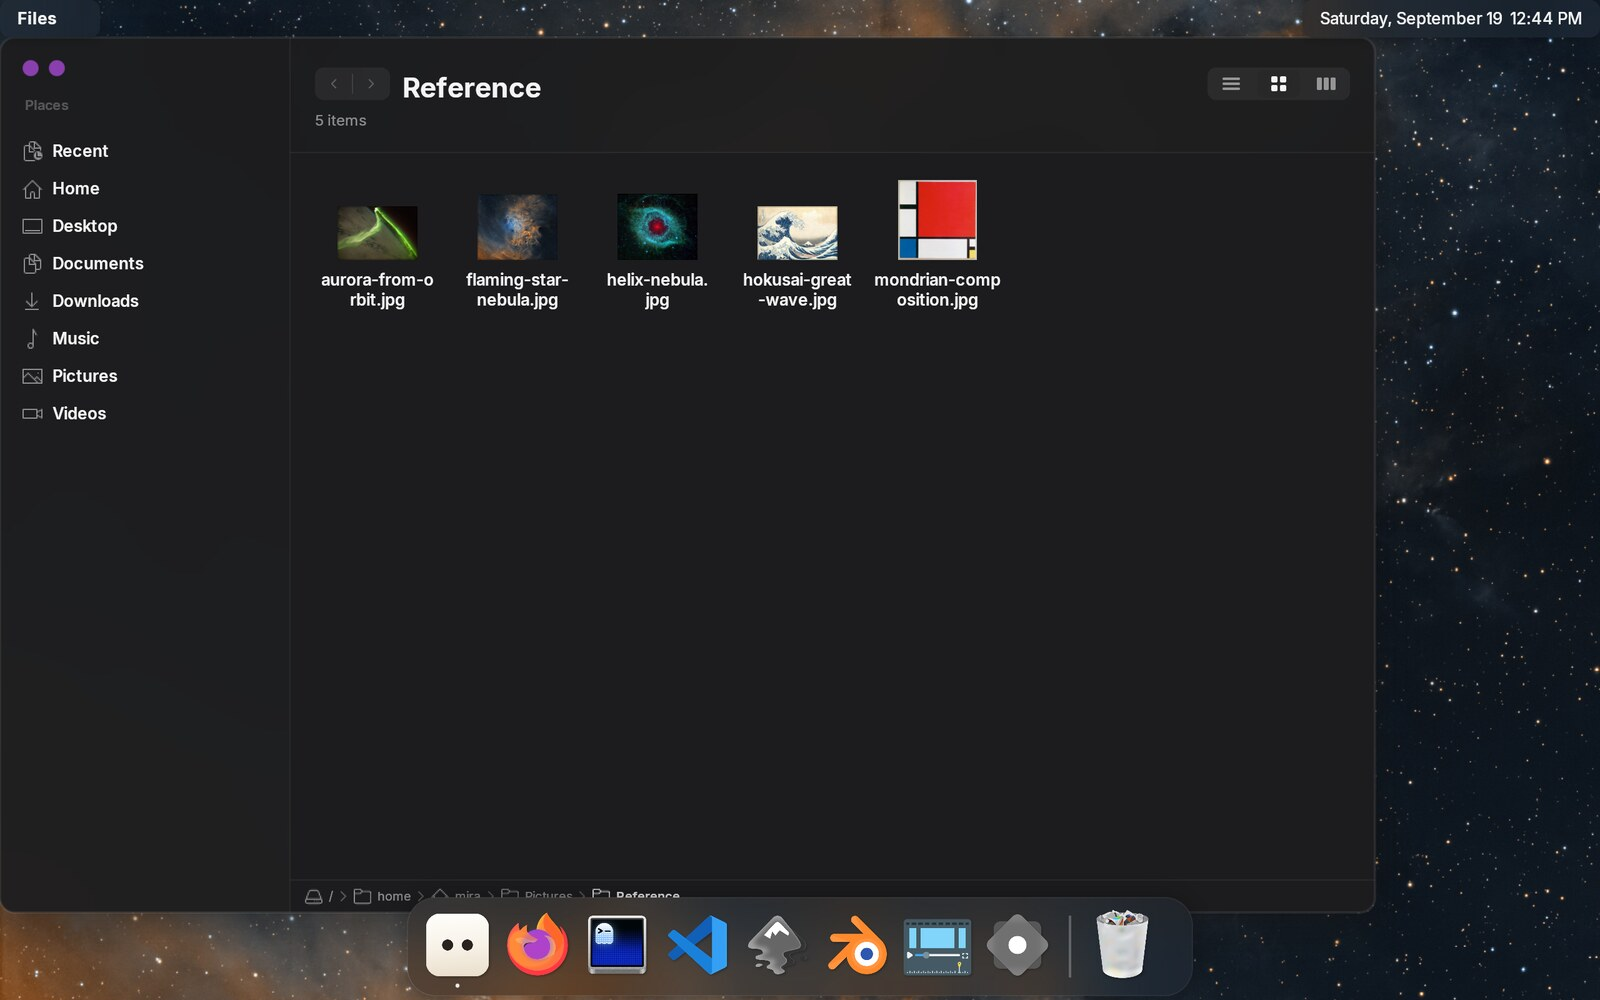
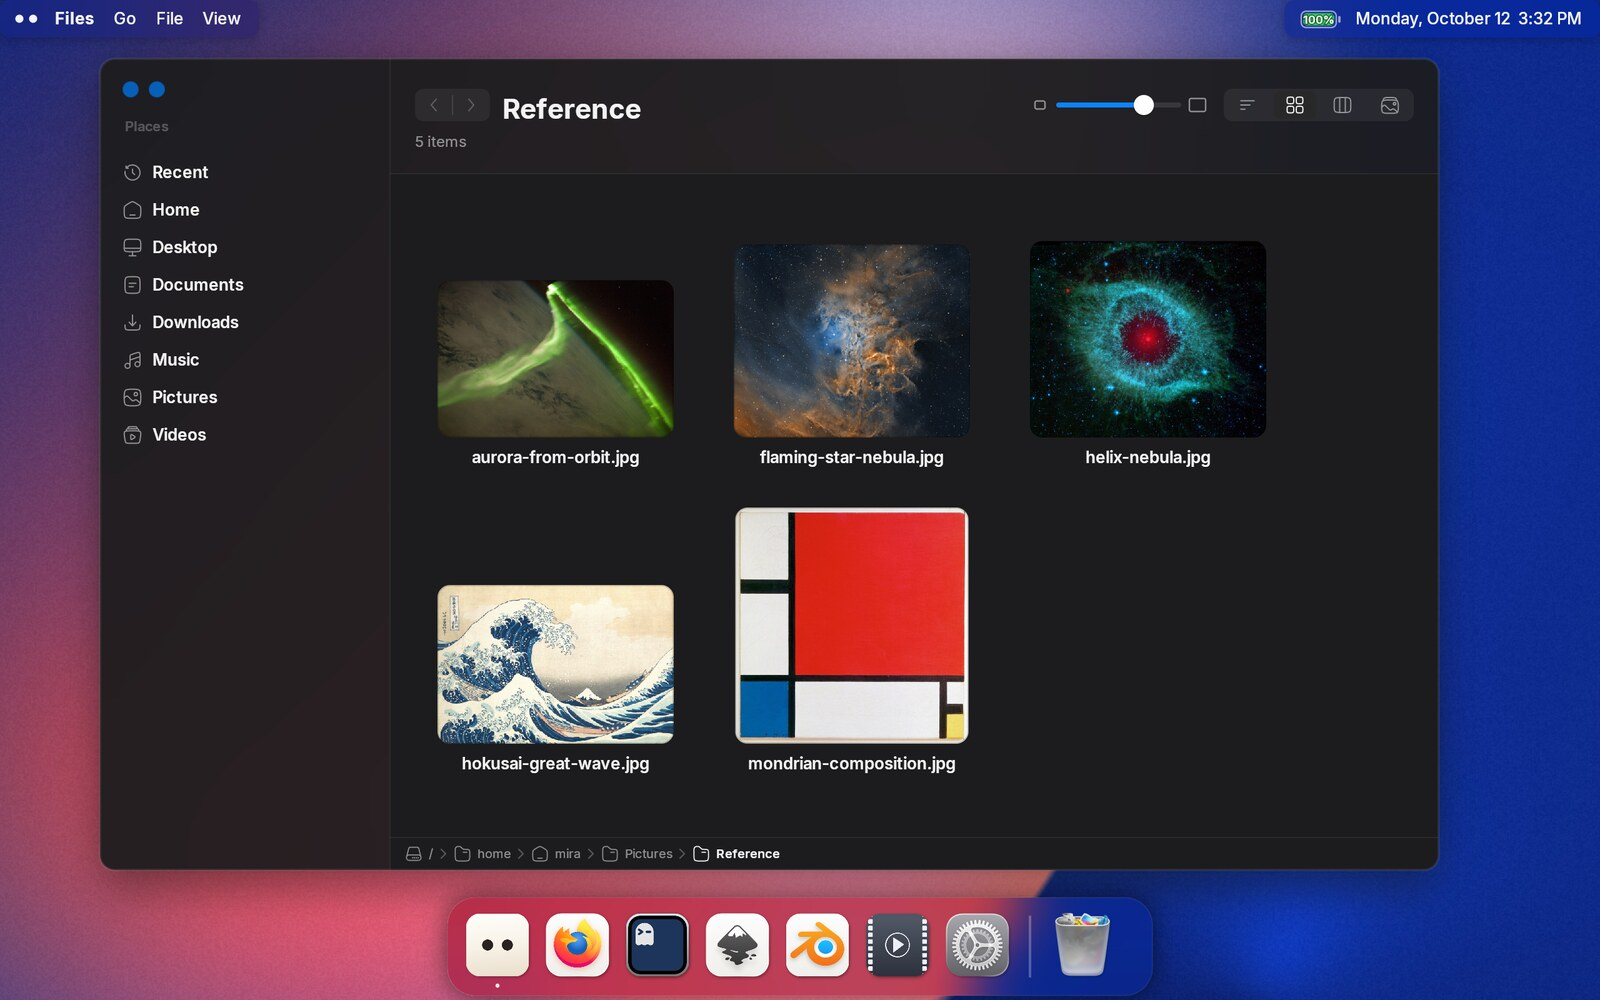
docs: refresh app screenshots in the default look, add the missing ones (#353)
* docs: refresh app screenshots in the default look, add the missing ones

Retake the user guide's screenshots in Otto's out-of-the-box look — the
shipped wallpaper and the Otto-MacTahoe icons and cursor, dark scheme, blue
accent — from the staged demo session.

New images for Settings, the emoji picker, the Files command palette, the
top bar and window management. The demo's media workspace now plays a NASA
public-domain clip, credited in credits.md.

* docs: sync the otto-help skill's copies of the user guides

diff --git a/docs/user/files.md b/docs/user/files.md
@@ -3,7 +3,7 @@
 `otto-files` is Otto's file manager. Browse the filesystem, open things, move
 them around, and preview a file without opening it at all.
 
-![The Files window in icon view, showing a folder of pictures as thumbnails with the sidebar of places on the left](images/files-icon-view.jpg)
+![The Files window in icon view, showing a folder of pictures as large thumbnails with the sidebar of places on the left and the path along the bottom](images/files-icon-view.jpg)
 
 > **First version.** Files is new and aims to be genuinely useful for everyday
 > browsing, but it is not finished. What is missing is listed at the bottom of
@@ -292,7 +292,7 @@ as the panel is open.
 Arrow keys move to the next file and the preview follows, `Space` closes it,
 and `Escape` closes it before it clears your selection.
 
-![Peek open on a picture: the file fills the panel, with its name, dimensions and size listed underneath](images/peek.jpg)
+![Peek open on a picture: the image fills a panel over the Files window, with the file name above it and buttons to expand or close](images/peek.jpg)
 
 While the panel is up it owns the pointer: the wheel scrolls a text preview, a
 pinch zooms a picture, and a two-finger scroll pans a zoomed one with momentum

diff --git a/resources/plugins/otto/skills/otto-help/references/docs/files.md b/resources/plugins/otto/skills/otto-help/references/docs/files.md
@@ -3,7 +3,7 @@
 `otto-files` is Otto's file manager. Browse the filesystem, open things, move
 them around, and preview a file without opening it at all.
 
-![The Files window in icon view, showing a folder of pictures as thumbnails with the sidebar of places on the left](images/files-icon-view.jpg)
+![The Files window in icon view, showing a folder of pictures as large thumbnails with the sidebar of places on the left and the path along the bottom](images/files-icon-view.jpg)
 
 > **First version.** Files is new and aims to be genuinely useful for everyday
 > browsing, but it is not finished. What is missing is listed at the bottom of
@@ -292,7 +292,7 @@ as the panel is open.
 Arrow keys move to the next file and the preview follows, `Space` closes it,
 and `Escape` closes it before it clears your selection.
 
-![Peek open on a picture: the file fills the panel, with its name, dimensions and size listed underneath](images/peek.jpg)
+![Peek open on a picture: the image fills a panel over the Files window, with the file name above it and buttons to expand or close](images/peek.jpg)
 
 While the panel is up it owns the pointer: the wheel scrolls a text preview, a
 pinch zooms a picture, and a two-finger scroll pans a zoomed one with momentum

diff --git a/docs/user/credits.md b/docs/user/credits.md
@@ -18,6 +18,15 @@ Downloaded from [Wikimedia Commons](https://commons.wikimedia.org). A public
 domain or CC0 file needs no permission; a CC BY-SA file is credited above, and
 the same licence applies to the screenshot that shows it.
 
+## Video
+
+| Name | File | Author | Licence |
+|------|------|--------|---------|
+| `earth-at-night` | [NASA - Earth at Night Q3YYwIsMHzw.webm](https://commons.wikimedia.org/wiki/File:NASA_-_Earth_at_Night_Q3YYwIsMHzw.webm) | NASA Goddard Space Flight Center | Public domain |
+
+The clip playing in mpv on the demo's fourth workspace, downloaded from
+Wikimedia Commons into `~/Videos` by hand.
+
 ## Icons and cursors
 
 | Name | Author | Licence |

diff --git a/resources/plugins/otto/skills/otto-help/references/docs/credits.md b/resources/plugins/otto/skills/otto-help/references/docs/credits.md
@@ -18,6 +18,15 @@ Downloaded from [Wikimedia Commons](https://commons.wikimedia.org). A public
 domain or CC0 file needs no permission; a CC BY-SA file is credited above, and
 the same licence applies to the screenshot that shows it.
 
+## Video
+
+| Name | File | Author | Licence |
+|------|------|--------|---------|
+| `earth-at-night` | [NASA - Earth at Night Q3YYwIsMHzw.webm](https://commons.wikimedia.org/wiki/File:NASA_-_Earth_at_Night_Q3YYwIsMHzw.webm) | NASA Goddard Space Flight Center | Public domain |
+
+The clip playing in mpv on the demo's fourth workspace, downloaded from
+Wikimedia Commons into `~/Videos` by hand.
+
 ## Icons and cursors
 
 | Name | Author | Licence |

diff --git a/docs/user/tiling.md b/docs/user/tiling.md
@@ -5,7 +5,7 @@ overlapping, no wasted space. You shape the layout by splitting cells, moving
 windows between them and dragging the boundaries. Otto rearranges the windows
 for you as they open and close.
 
-![A tiled workspace: Otto Settings, a Files window and a terminal each filling their own cell, with no overlap](images/tiling.jpg)
+![A tiled workspace: a code editor filling the left half, and a terminal and a Files window stacked on the right, with no overlap](images/tiling.jpg)
 
 Tiling is a mode of **one workspace on one monitor**. Otto stacks windows by
 default, and you can switch any workspace between stacking and tiling whenever

diff --git a/resources/plugins/otto/skills/otto-help/references/docs/tiling.md b/resources/plugins/otto/skills/otto-help/references/docs/tiling.md
@@ -5,7 +5,7 @@ overlapping, no wasted space. You shape the layout by splitting cells, moving
 windows between them and dragging the boundaries. Otto rearranges the windows
 for you as they open and close.
 
-![A tiled workspace: Otto Settings, a Files window and a terminal each filling their own cell, with no overlap](images/tiling.jpg)
+![A tiled workspace: a code editor filling the left half, and a terminal and a Files window stacked on the right, with no overlap](images/tiling.jpg)
 
 Tiling is a mode of **one workspace on one monitor**. Otto stacks windows by
 default, and you can switch any workspace between stacking and tiling whenever

diff --git a/docs/user/desktop-tour.md b/docs/user/desktop-tour.md
@@ -8,7 +8,7 @@ The top bar runs along the top edge, with the dynamic island in the middle of
 it. Your windows sit on the workspace below. The dock floats over the bottom
 edge, or whichever edge you moved it to.
 
-![The Otto desktop: the top bar with the focused application's name and the clock, two windows over the wallpaper, and the dock along the bottom](images/desktop-tour.jpg)
+![The Otto desktop: the top bar with the focused application's menus and the clock, a browser and a Files window over the wallpaper, and the dock along the bottom](images/desktop-tour.jpg)
 
 ## The Dock
 

diff --git a/resources/plugins/otto/skills/otto-help/references/docs/desktop-tour.md b/resources/plugins/otto/skills/otto-help/references/docs/desktop-tour.md
@@ -8,7 +8,7 @@ The top bar runs along the top edge, with the dynamic island in the middle of
 it. Your windows sit on the workspace below. The dock floats over the bottom
 edge, or whichever edge you moved it to.
 
-![The Otto desktop: the top bar with the focused application's name and the clock, two windows over the wallpaper, and the dock along the bottom](images/desktop-tour.jpg)
+![The Otto desktop: the top bar with the focused application's menus and the clock, a browser and a Files window over the wallpaper, and the dock along the bottom](images/desktop-tour.jpg)
 
 ## The Dock
 

diff --git a/docs/user/launcher.md b/docs/user/launcher.md
@@ -3,7 +3,7 @@
 `otto-launcher` is a keyboard-driven overlay for starting applications and
 jumping to windows: press a key, type a few letters, press Enter.
 
-![The launcher opening over the desktop, filtering to Otto Settings as the word is typed, then opening it](images/launcher.gif)
+![The launcher opening over the desktop, filtering to Settings as the word is typed, then opening it](images/launcher.gif)
 
 > **First version.** It does applications, windows and arithmetic well; it is
 > built so other kinds of result can be added later, and those are not there

diff --git a/resources/plugins/otto/skills/otto-help/references/docs/launcher.md b/resources/plugins/otto/skills/otto-help/references/docs/launcher.md
@@ -3,7 +3,7 @@
 `otto-launcher` is a keyboard-driven overlay for starting applications and
 jumping to windows: press a key, type a few letters, press Enter.
 
-![The launcher opening over the desktop, filtering to Otto Settings as the word is typed, then opening it](images/launcher.gif)
+![The launcher opening over the desktop, filtering to Settings as the word is typed, then opening it](images/launcher.gif)
 
 > **First version.** It does applications, windows and arithmetic well; it is
 > built so other kinds of result can be added later, and those are not there

diff --git a/docs/user/expose-and-switcher.md b/docs/user/expose-and-switcher.md
@@ -10,7 +10,7 @@ applications (App Switcher).
 Exposé scales every window on the current workspace down into a packed grid, so
 you can see all of them at once.
 
-![Exposé: four workspace previews in a strip along the top, and below them every window on the current workspace laid out in a grid](images/expose.jpg)
+![Exposé: four named workspace previews in a strip along the top, and below them every window on the current workspace laid out side by side](images/expose.jpg)
 
 ### Opening and closing
 

diff --git a/resources/plugins/otto/skills/otto-help/references/docs/expose-and-switcher.md b/resources/plugins/otto/skills/otto-help/references/docs/expose-and-switcher.md
@@ -10,7 +10,7 @@ applications (App Switcher).
 Exposé scales every window on the current workspace down into a packed grid, so
 you can see all of them at once.
 
-![Exposé: four workspace previews in a strip along the top, and below them every window on the current workspace laid out in a grid](images/expose.jpg)
+![Exposé: four named workspace previews in a strip along the top, and below them every window on the current workspace laid out side by side](images/expose.jpg)
 
 ### Opening and closing
 
